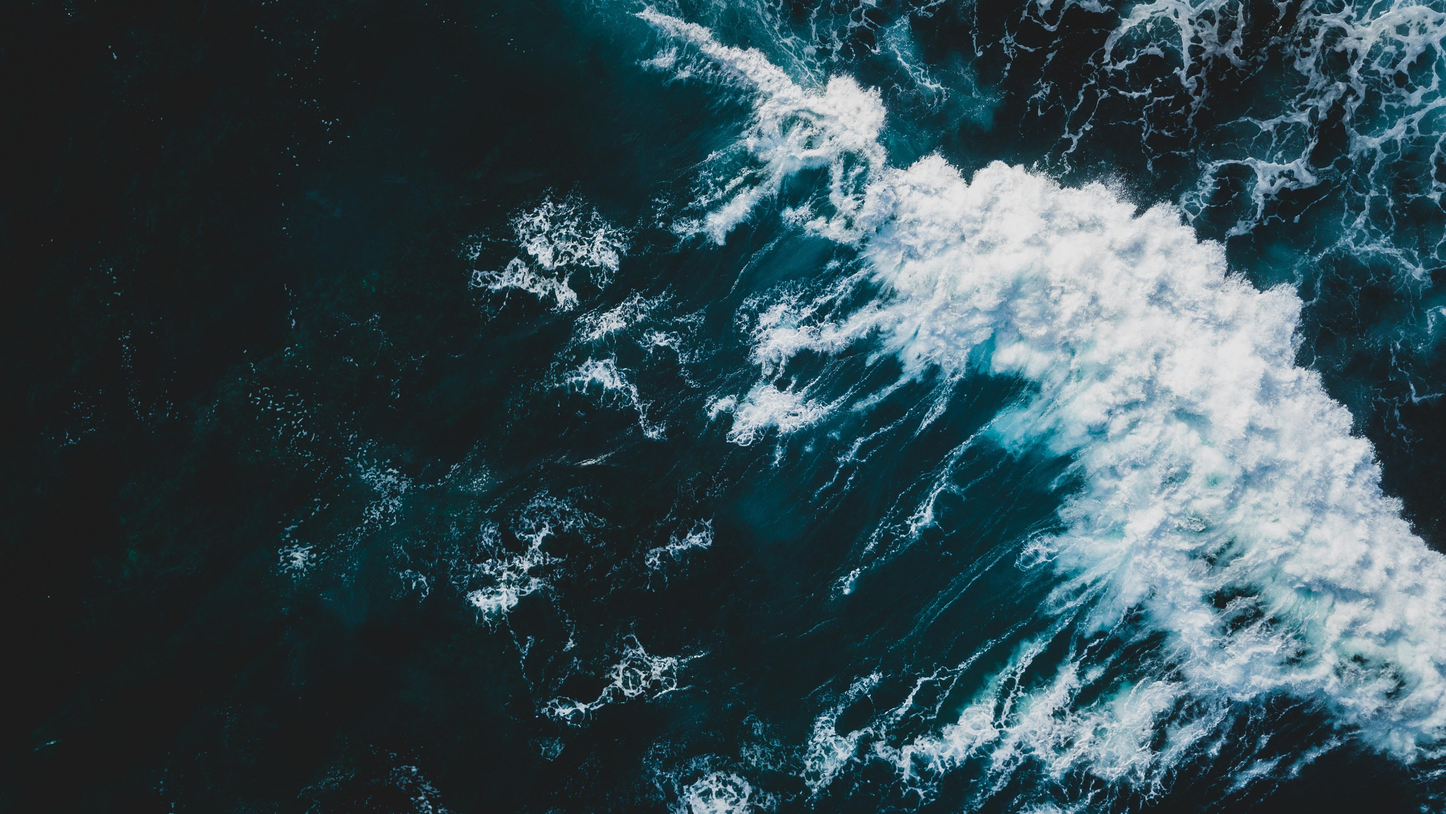
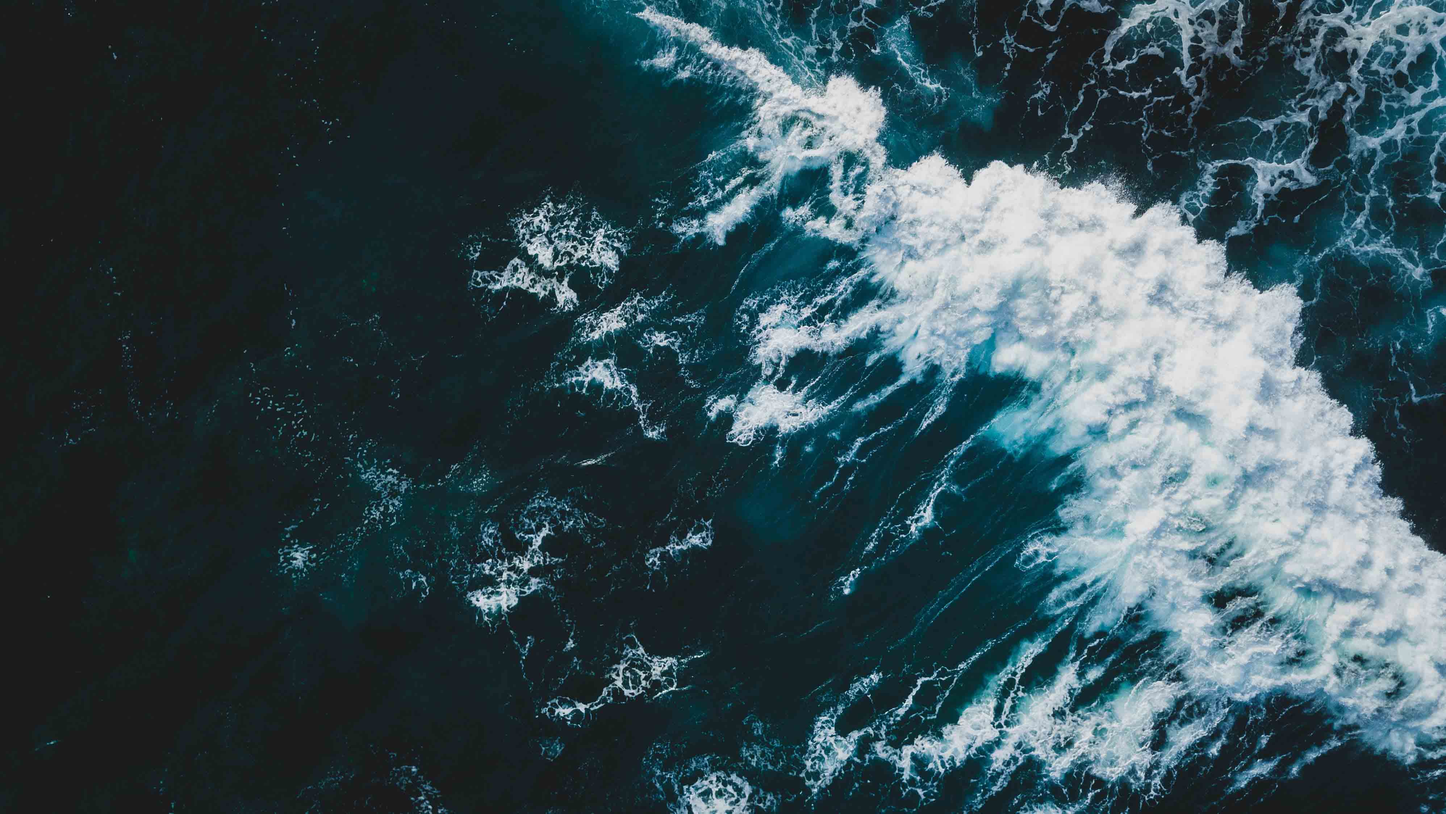
image resize and bug fix

Changed region(s): [[0.4038, 0.2805, 0.4349, 0.3117]]

diff --git a/js/post-specific.js b/js/post-specific.js
@@ -1,8 +1,5 @@
 const postWrapper = document.querySelector(".post-info");
 const activeBreadcrumb = document.querySelector(".activeBreadcrumb");
-const modal = document.getElementById("myModal");
-const modalImg = document.getElementById("img01");
-const postImg = document.querySelector(".post-img");
 const queryString = document.location.search;
 
 const params = new URLSearchParams(queryString);
@@ -47,14 +44,15 @@ function createHTML(details) {
         </div>
     `;
 
+const modal = document.getElementById("myModal");
+const modalImg = document.getElementById("img01");
+const postImg = document.querySelector(".post-img");
 
-/*image modal - image gets enlarged when clicked */
     postImg.addEventListener("click", function() {
         modal.style.display = "flex";
         modalImg.src = postImg.src;
     });
 
-/* image modal disappears when clicked outside of the enlarged image */
     window.addEventListener("click", function(event) {
         if (event.target == modal) {
             modal.style.display = "none";

diff --git a/styles/contact.css b/styles/contact.css
@@ -1,5 +1,5 @@
 body {
-    background: no-repeat center 70% url("../images/contactfish.png");
+    background: no-repeat center 70% url("../images/contactfish.jpg");
     background-size: cover;
     height: 100vh;
     overflow: hidden;

diff --git a/styles/about.css b/styles/about.css
@@ -1,5 +1,5 @@
 body {
-    background: no-repeat url("../images/matheo-jbt-yqIFxfERlpU-unsplash.png");
+    background: no-repeat url("../images/matheo-jbt-yqIFxfERlpU-unsplash.jpg");
     background-size: cover;
     display: grid;
 }

diff --git a/styles/media.css b/styles/media.css
@@ -71,7 +71,6 @@
         height: 300px;
     }
 
-
     .post-info {
         margin-top: 20px;
     }
